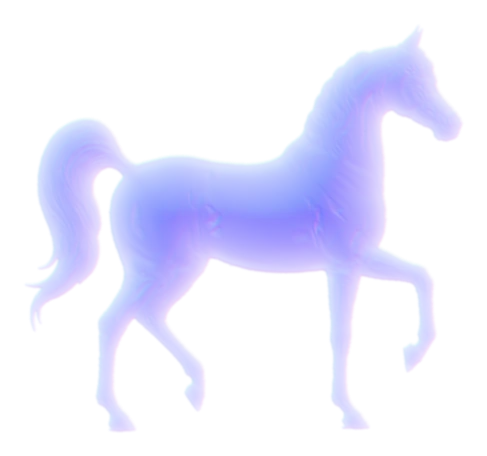
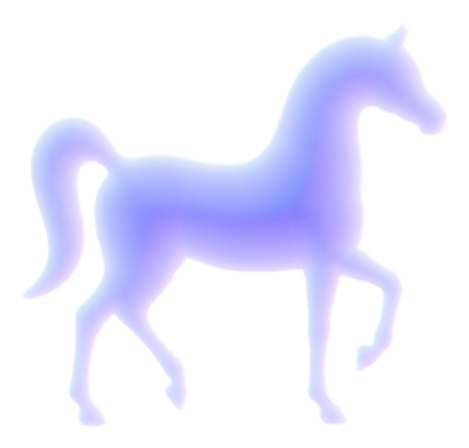
Update centerpiece to minimalist tech Show Arabian mother-of-pearl glassmorphism

diff --git a/index.html b/index.html
@@ -11,8 +11,8 @@
     <meta property="og:type" content="website">
     <meta name="theme-color" content="#fbfafc">
 
-    <link rel="icon" type="image/svg+xml" href="favicon.svg?v=4">
-    <link rel="preload" as="image" href="arabian_glassmorph.webp?v=7" type="image/webp" crossorigin="anonymous">
+    <link rel="icon" type="image/svg+xml" href="favicon.svg?v=8">
+    <link rel="preload" as="image" href="arabian_glassmorph.webp?v=8" type="image/webp" crossorigin="anonymous">
     <link rel="preconnect" href="https://fonts.googleapis.com">
     <link rel="preconnect" href="https://fonts.gstatic.com" crossorigin>
     <link href="https://fonts.googleapis.com/css2?family=Cormorant+Garamond:ital,wght@0,400;0,500;0,600;1,400;1,600&family=DM+Sans:wght@300;400;500;600&family=JetBrains+Mono:wght@400;500&display=swap" rel="stylesheet">
@@ -162,7 +162,7 @@
                             <stop offset="100%" stop-color="#c084fc" />
                         </linearGradient>
                     </defs>
-                    <path d="M45.48 56.78 L43.09 56.13 L43.09 54.39 L41.78 53.09 L41.35 37.87 L40.70 37.22 L34.17 37.65 L30.26 36.78 L28.96 35.91 L27.87 36.13 L25.70 39.61 L23.09 42.22 L23.09 43.96 L27.43 49.17 L27.00 53.96 L26.35 54.17 L25.26 52.65 L25.70 50.48 L24.83 49.61 L24.83 48.74 L21.13 44.61 L18.96 43.30 L17.00 47.87 L17.00 52.22 L19.61 56.57 L16.57 56.57 L16.57 54.83 L14.83 53.09 L14.83 51.78 L15.26 51.35 L15.26 43.09 L17.87 39.17 L17.87 36.13 L16.57 32.65 L16.57 28.30 L17.87 25.70 L16.78 24.61 L14.83 25.70 L14.83 28.30 L15.70 30.48 L15.26 36.13 L12.87 38.96 L9.83 40.70 L8.74 41.78 L8.74 43.52 L8.09 42.87 L7.87 43.96 L7.43 43.96 L7.43 40.91 L8.30 39.61 L7.22 39.39 L7.00 38.74 L9.39 38.09 L10.48 36.57 L8.30 37.00 L10.04 35.26 L9.61 31.78 L8.30 29.17 L8.30 23.96 L9.61 20.91 L11.13 19.39 L12.87 18.52 L15.04 18.52 L19.39 24.17 L24.17 22.87 L30.70 24.17 L35.04 23.74 L38.74 20.04 L38.74 18.74 L40.91 14.39 L42.87 12.00 L45.04 10.26 L47.22 10.26 L49.83 9.39 L51.57 7.22 L52.22 7.87 L51.78 9.61 L53.52 11.78 L53.96 14.83 L57.00 19.17 L56.57 20.48 L54.61 21.57 L52.87 19.83 L48.96 17.65 L47.87 18.30 L47.43 20.48 L47.87 20.91 L48.30 31.35 L47.43 34.39 L52.00 36.35 L53.09 37.43 L53.96 45.26 L52.22 48.30 L50.70 49.39 L50.04 48.74 L50.04 46.57 L51.78 45.70 L51.78 40.04 L50.70 38.52 L45.26 38.30 L44.39 40.91 L43.52 51.78 L46.13 55.70 L45.48 56.78 Z" fill="url(#ponyCrestGrad)"/>
+                    <path d="M51.50 8.50 L52.25 9.00 L51.50 11.00 L52.75 12.25 L54.00 15.75 L56.25 18.00 L56.75 19.50 L55.75 21.25 L54.00 21.25 L52.75 19.75 L48.50 18.00 L47.25 18.00 L46.25 19.50 L47.00 29.75 L46.25 34.50 L50.50 37.50 L51.50 39.75 L50.00 46.25 L46.50 49.00 L46.50 46.25 L48.25 45.75 L49.50 40.00 L47.50 38.50 L45.00 37.75 L44.00 38.25 L42.50 46.25 L42.50 51.25 L45.00 55.00 L42.25 55.00 L42.00 53.25 L40.75 52.25 L40.75 42.00 L39.75 37.00 L31.25 37.25 L26.25 35.75 L21.50 42.25 L21.75 43.50 L26.00 49.25 L26.25 51.75 L25.75 53.50 L24.75 53.00 L24.00 51.25 L24.50 50.00 L23.00 47.75 L17.75 42.25 L15.50 45.00 L14.75 48.00 L14.75 52.00 L16.75 55.25 L14.75 55.50 L13.75 55.00 L13.75 53.25 L12.50 51.50 L13.25 48.00 L13.25 42.50 L16.75 37.75 L15.50 29.75 L17.25 25.75 L15.75 24.50 L14.50 24.50 L13.50 25.50 L13.25 27.50 L14.25 32.25 L13.75 36.00 L11.25 39.25 L7.25 40.50 L9.25 38.00 L10.25 35.50 L10.00 32.75 L8.25 27.50 L8.25 23.50 L9.00 21.75 L11.75 19.50 L14.00 19.50 L15.25 20.00 L19.25 24.25 L24.00 23.75 L29.75 25.00 L33.25 24.75 L36.25 22.25 L39.25 14.50 L42.00 11.50 L45.00 10.00 L47.50 9.75 L49.50 10.25 Z" fill="url(#ponyCrestGrad)"/>
                 </svg>
             </div>
             <h1>Pink Pony</h1>
@@ -411,6 +411,6 @@
     <!-- Subtle Copy Confirmation Toast -->
     <div id="copy-toast" class="copy-toast" role="status" aria-live="polite" hidden>Copied to clipboard</div>
 
-    <script type="module" src="script.js?v=7"></script>
+    <script type="module" src="script.js?v=8"></script>
 </body>
 </html>

diff --git a/script.js b/script.js
@@ -98,12 +98,12 @@ backdropAuraMesh.position.set(0.02, 0.04, -0.26);
 stageGroup.add(backdropAuraMesh);
 
 const textureLoader = new THREE.TextureLoader();
-const colorTex = textureLoader.load('arabian_glassmorph.webp?v=7');
+const colorTex = textureLoader.load('arabian_glassmorph.webp?v=8');
 colorTex.minFilter = THREE.LinearMipmapLinearFilter;
 colorTex.magFilter = THREE.LinearFilter;
 colorTex.anisotropy = Math.min(renderer.capabilities.getMaxAnisotropy(), 8);
 
-const reliefTex = textureLoader.load('arabian_glass_relief.webp?v=7');
+const reliefTex = textureLoader.load('arabian_glass_relief.webp?v=8');
 reliefTex.minFilter = THREE.LinearFilter;
 reliefTex.magFilter = THREE.LinearFilter;
 
@@ -231,8 +231,8 @@ const glassArabianMaterial = new THREE.ShaderMaterial({
     `
 });
 
-// Aspect ratio of cropped sculpture = 974 / 913 = 1.0668
-const arabianPlaneGeo = new THREE.PlaneGeometry(3.58, 3.36, 160, 160);
+// Aspect ratio of minimalist tech Show Arabian sculpture = 939 / 897 = 1.0468
+const arabianPlaneGeo = new THREE.PlaneGeometry(3.52, 3.36, 160, 160);
 const arabianMesh = new THREE.Mesh(arabianPlaneGeo, glassArabianMaterial);
 horsePivot.add(arabianMesh);
 
@@ -257,9 +257,9 @@ function createShowFloorGlowTexture() {
     return new THREE.CanvasTexture(c);
 }
 
-// Standing hooves rest cleanly at y = -1.50 in sculpture coordinates
+// Standing hooves rest cleanly at y = -1.515 in sculpture coordinates
 const showRingGroup = new THREE.Group();
-showRingGroup.position.set(-0.02, -1.50, -0.15);
+showRingGroup.position.set(-0.02, -1.52, -0.15);
 
 const floorDisc = new THREE.Mesh(
     new THREE.CircleGeometry(1.78, 84),
